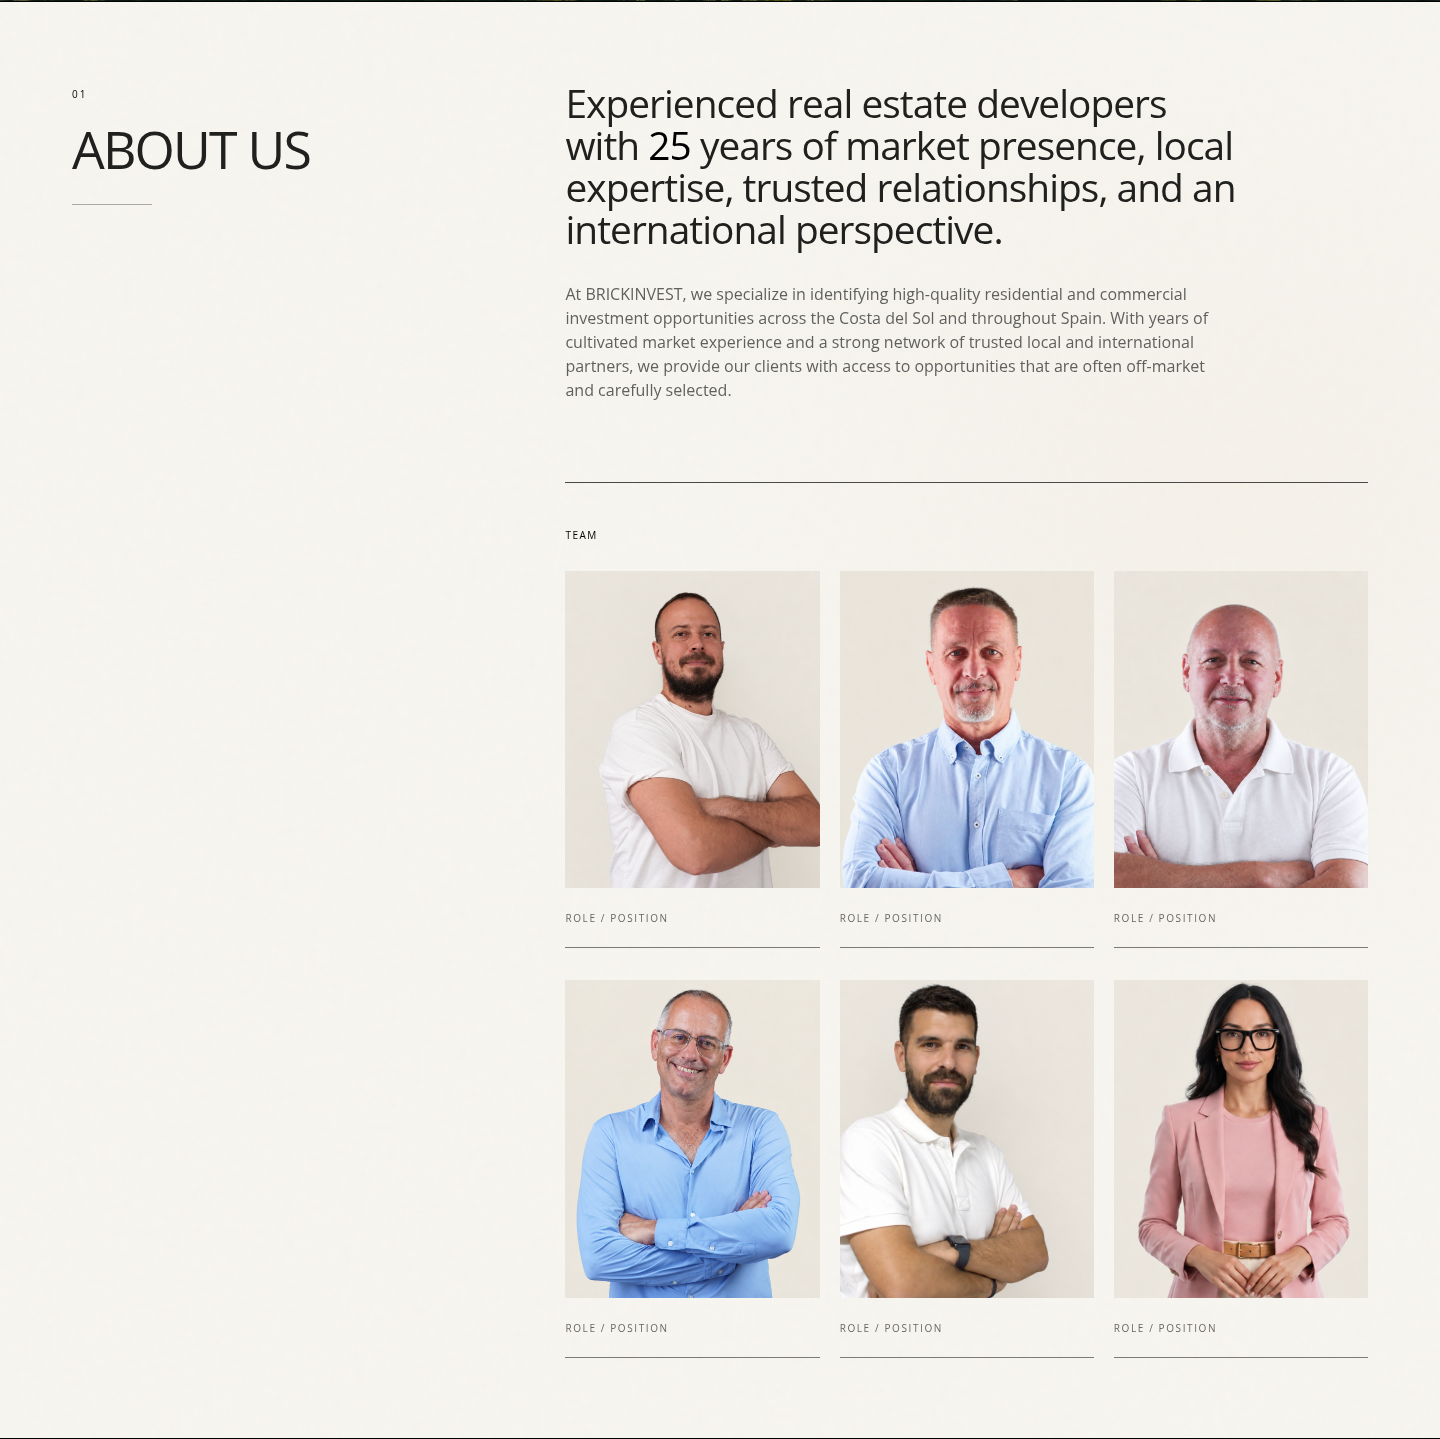
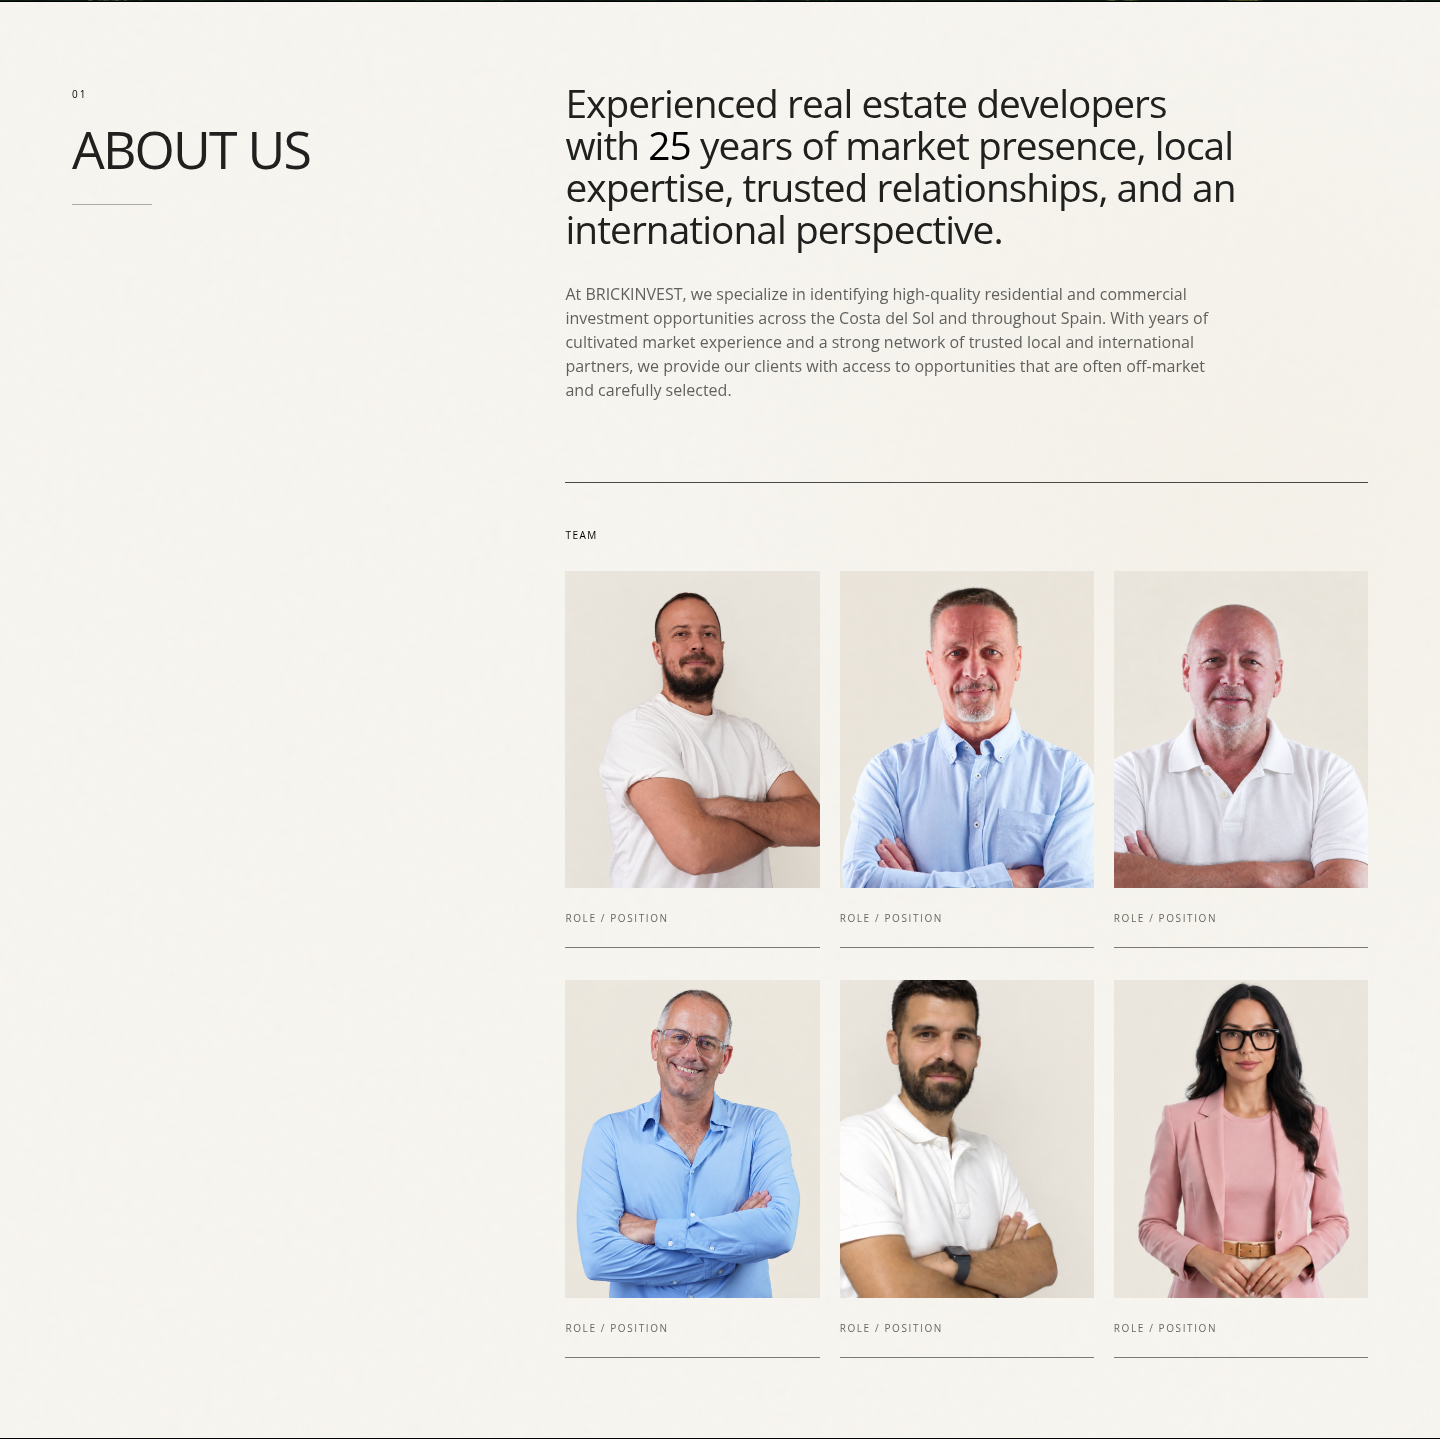
это предпоследнее фото с конца
Amazi-Operation-Id: task:c7de1c19-1d52-49a9-8065-6f6d89bbd5c6
Amazi-Operation-Payload: e01383f2055670b45b2c2d349daa4adc4029ca2c4605be1ed2059387fb40a505

Changed region(s): [[0.5625, 0.6727, 0.75, 0.9173]]

diff --git a/app-1/src/pages/home/components/AboutTeam.tsx b/app-1/src/pages/home/components/AboutTeam.tsx
@@ -6,6 +6,7 @@ const teamImages = [
   "/images/team/team-05.png",
   "/images/team/team-01.png",
 ];
+const penultimateTeamImageIndex = teamImages.length - 2;
 
 export const AboutTeam = () => {
   return (
@@ -20,8 +21,8 @@ export const AboutTeam = () => {
                 className={`h-full w-full object-cover ${
                   index === 0
                     ? "object-[50%_50%]"
-                    : index === 4
-                      ? "scale-[1.28] object-[50%_10%]"
+                    : index === penultimateTeamImageIndex
+                      ? "scale-[1.42] object-[50%_0%]"
                       : index === 5
                         ? "scale-[1.12] object-[50%_28%]"
                         : ""
